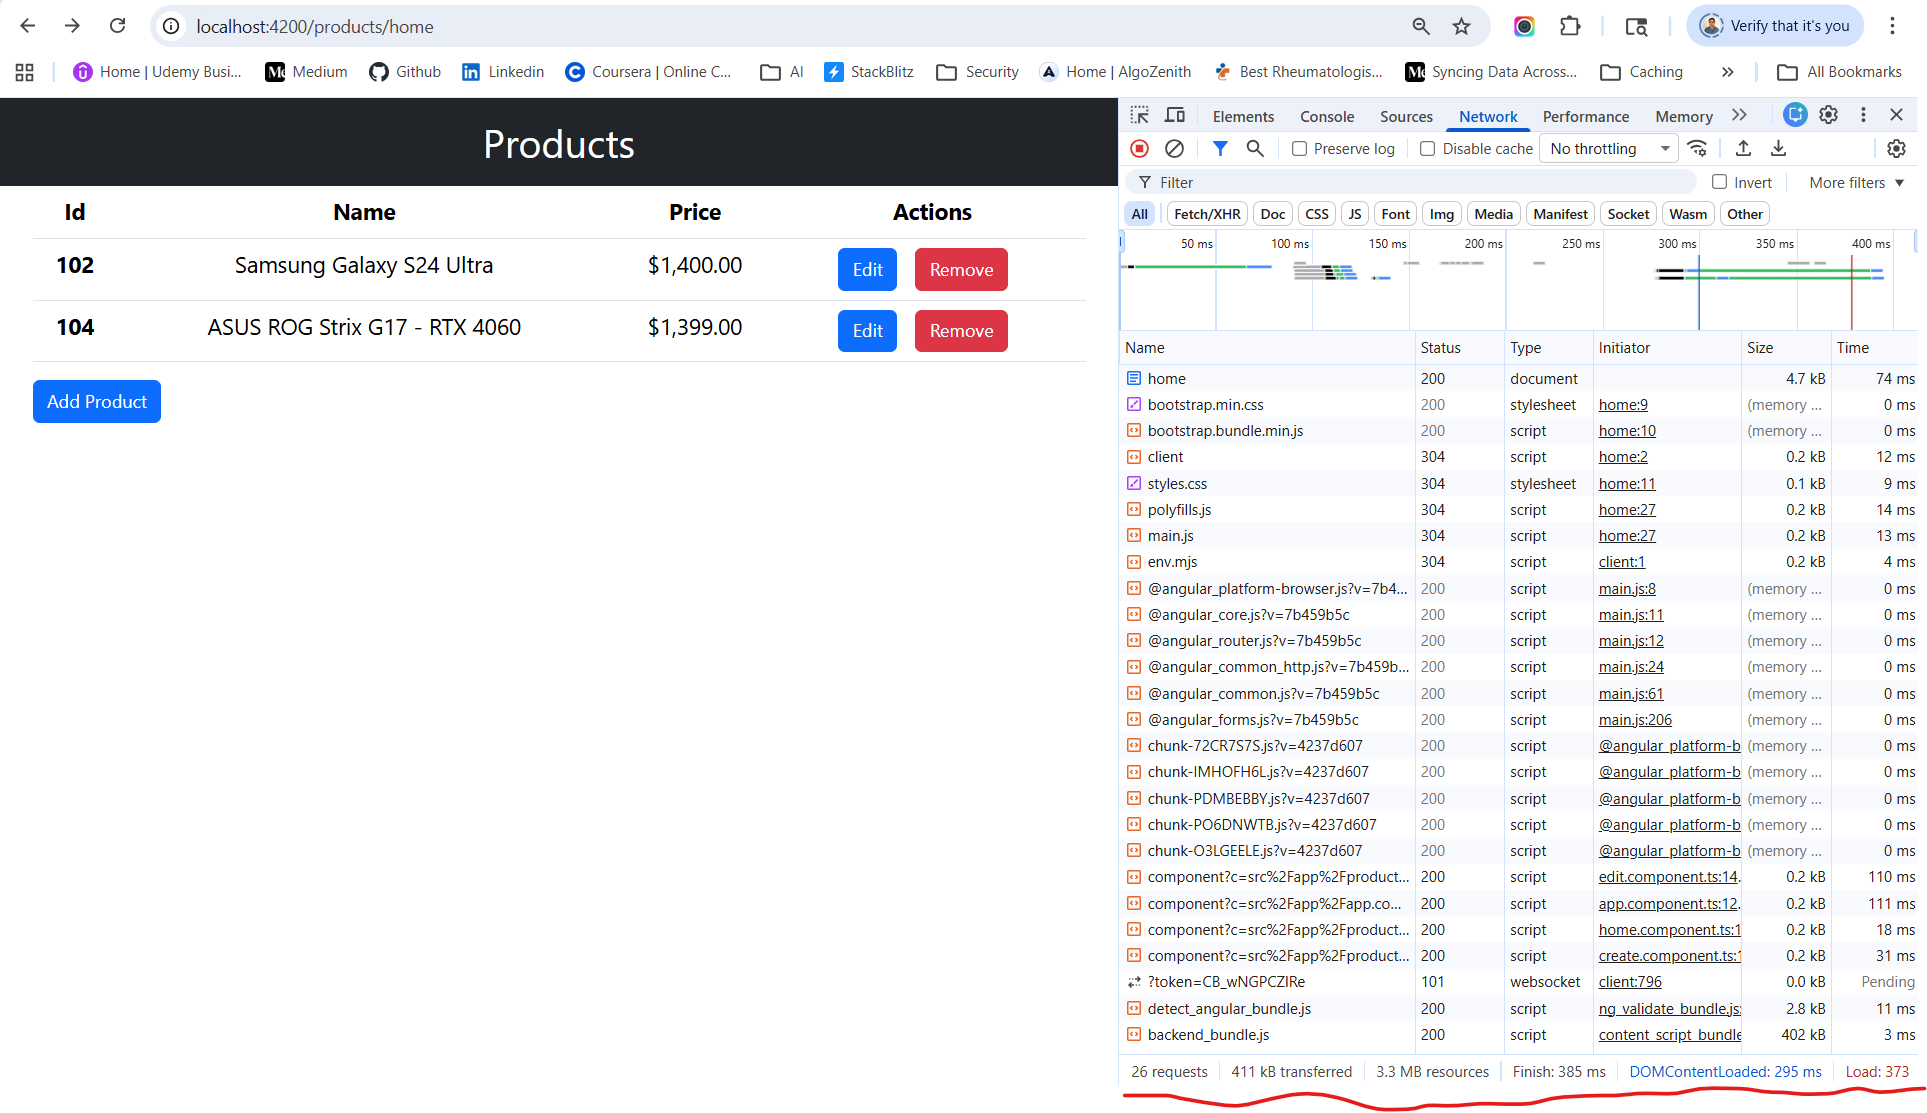
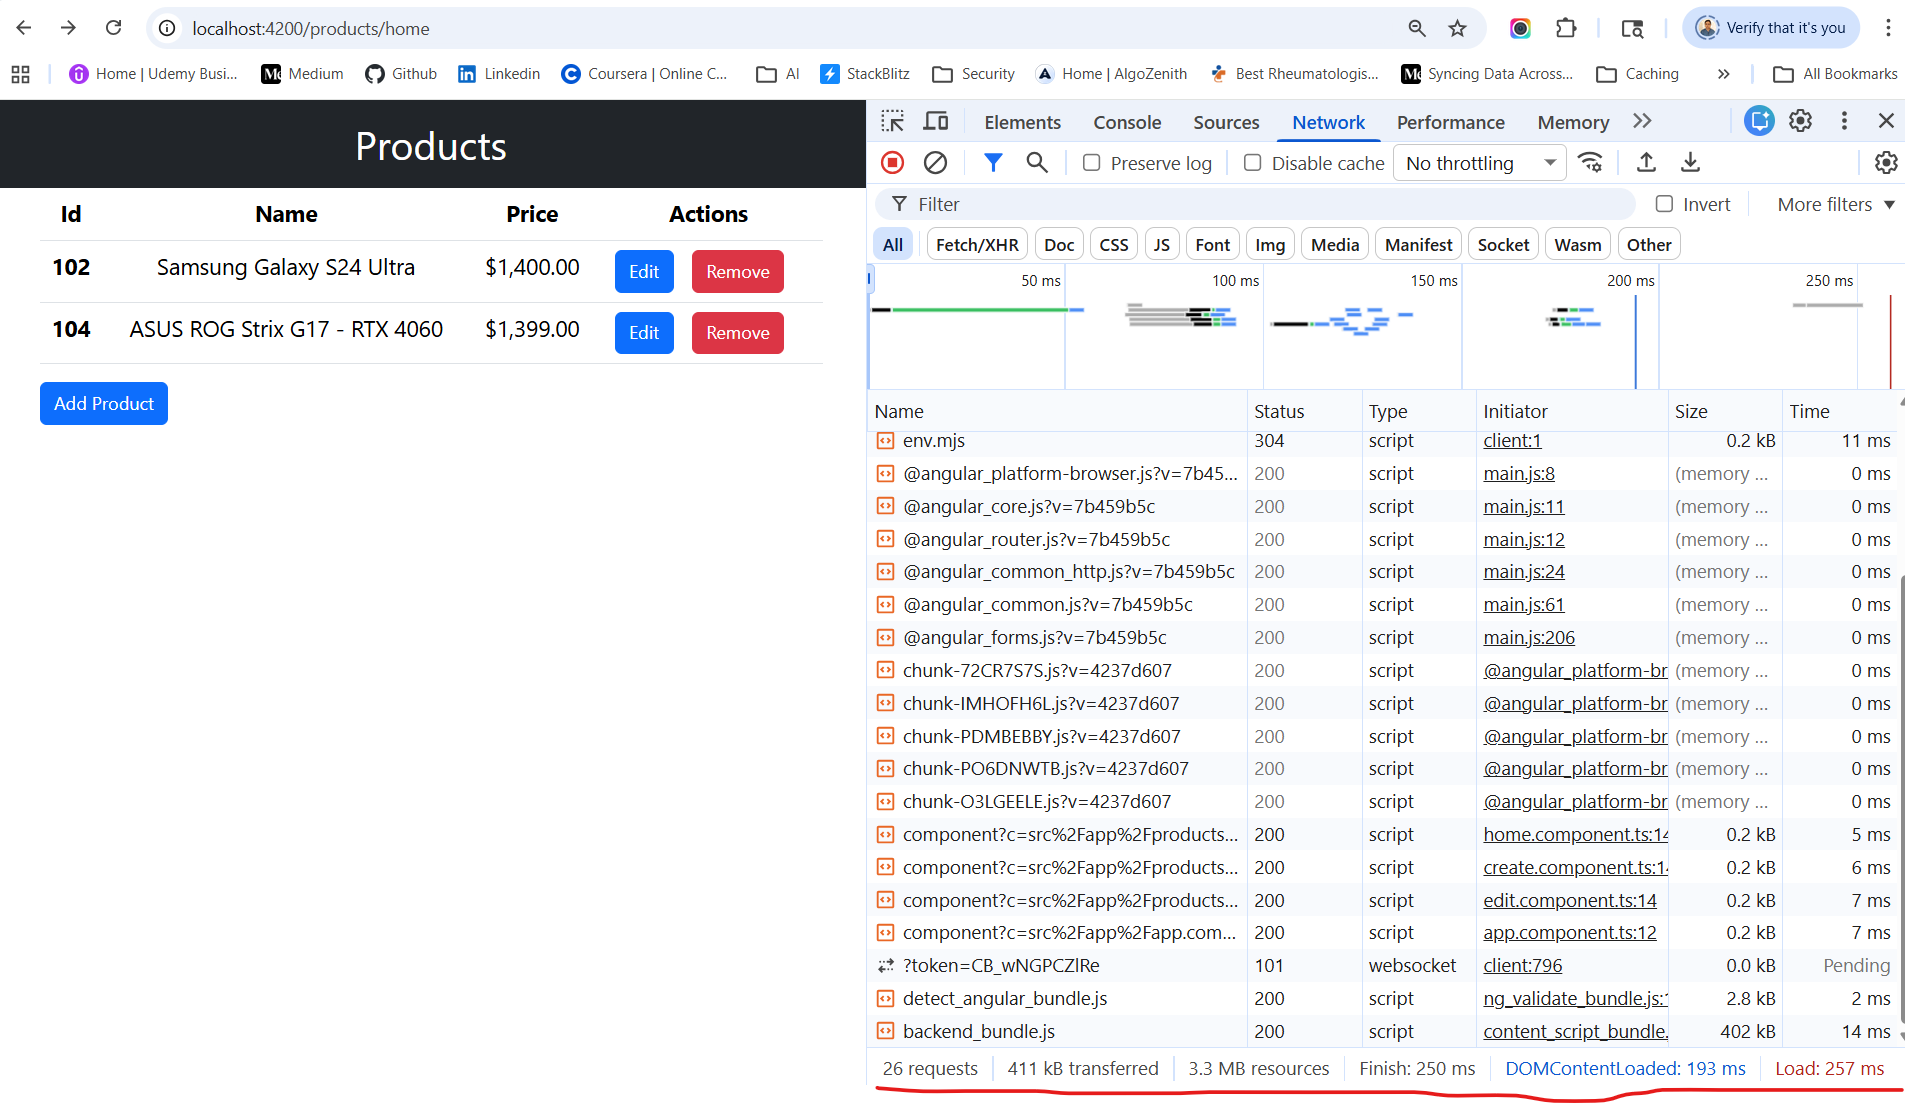
changes

Changed region(s): [[0.0, 0.0, 1.0, 1.0], [0.031, 0.0, 0.2168, 0.0308], [0.0, 0.3388, 0.0929, 0.4004]]

diff --git a/README.md b/README.md
@@ -273,12 +273,14 @@ You have 2 scenarios:
   - ng serve OR basic static hosting
 - ❌ No compression
 - ❌ No caching
+Running in : http://localhost:4200/products/home
 
 **🟢 After**
 - Angular served via Nginx
 - ✅ Gzip/Brotli compression
 - ✅ Cache headers
 - ✅ Optimized delivery
+Running in : http://localhost/products/home
 
 **⚠ Important Truth**
 
@@ -342,14 +344,15 @@ Run audit:
 
 📊 Your Results (Clean Comparison)
 ------------------------------------------------------------
-| Metric           | Angular (ng build / dev) | Nginx (Docker) | Improvement        |
-| ---------------- | ------------------------ | -------------- | ------------------ |
-| Requests         | 26                       | 9              | 🔥 ~65% fewer      |
-| Transferred      | 411 KB                   | 511 KB         | ⚠ Slight increase |
-| Resources        | 3.3 MB                   | 1.1 MB         | 🔥 ~66% smaller    |
-| Finish Time      | 345 ms                   | 199 ms         | 🚀 ~42% faster     |
-| DOMContentLoaded | 294 ms                   | 150 ms         | 🚀 ~49% faster     |
-| Load Time        | 360 ms                   | 212 ms         | 🚀 ~41% faster     |
+| Metric           | Angular (old) | Nginx (optimized) | Improvement      |
+| ---------------- | ------------- | ----------------- | ---------------- |
+| Requests         | 26            | 9                 | 🔥 **-65%**      |
+| Transferred      | 411 KB        | 406 KB            | ✅ Slightly lower |
+| Resources        | 3.3 MB        | 1.1 MB            | 🔥 **-66%**      |
+| Finish           | 250 ms        | 137 ms            | 🚀 **-45%**      |
+| DOMContentLoaded | 193 ms        | 77 ms             | 🚀 **-60%**      |
+| Load             | 257 ms        | 144 ms            | 🚀 **-44%**      |
+
 
 **🔥 1. Huge Win: Resource Size ↓**
 ```
@@ -363,7 +366,7 @@ Run audit:
 
 **🚀 2. Load Time Almost Halved**
 ```
-360 ms → 212 ms
+257 ms → 144 ms
 ```
 👉 That’s real user impact:
 - Faster page load
@@ -377,17 +380,22 @@ Run audit:
 - Better bundling
 - Fewer round trips
 - Less network overhead
+- Less HTTP overhead
+- Better mobile performance
 
-**⚠ 4. Why “Transferred” Increased?**
-```
-411 KB → 511 KB
-```
-👉 This looks weird but it’s normal:
+**🚀 4. Massive Rendering Improvement**
+DOMContentLoaded: 193 ms → 77 ms
 
-Possible reasons:
-- 🔹 A. Caching disabled in test
-First load downloads everything
-- 🔹 B. Compression not fully applied
+👉 ~60% faster UI rendering 
+👉 Users see content much quicker 
+
+**🎯 5. Compression is NOW Working**
+Transferred: 406 KB ≈ compressed size
+Resources: 1.1 MB ≈ actual size
+
+👉 This proves:
+- ✅ Gzip is active
+- ✅ Files compressed ~60–70%
 
 Check:
 ```
